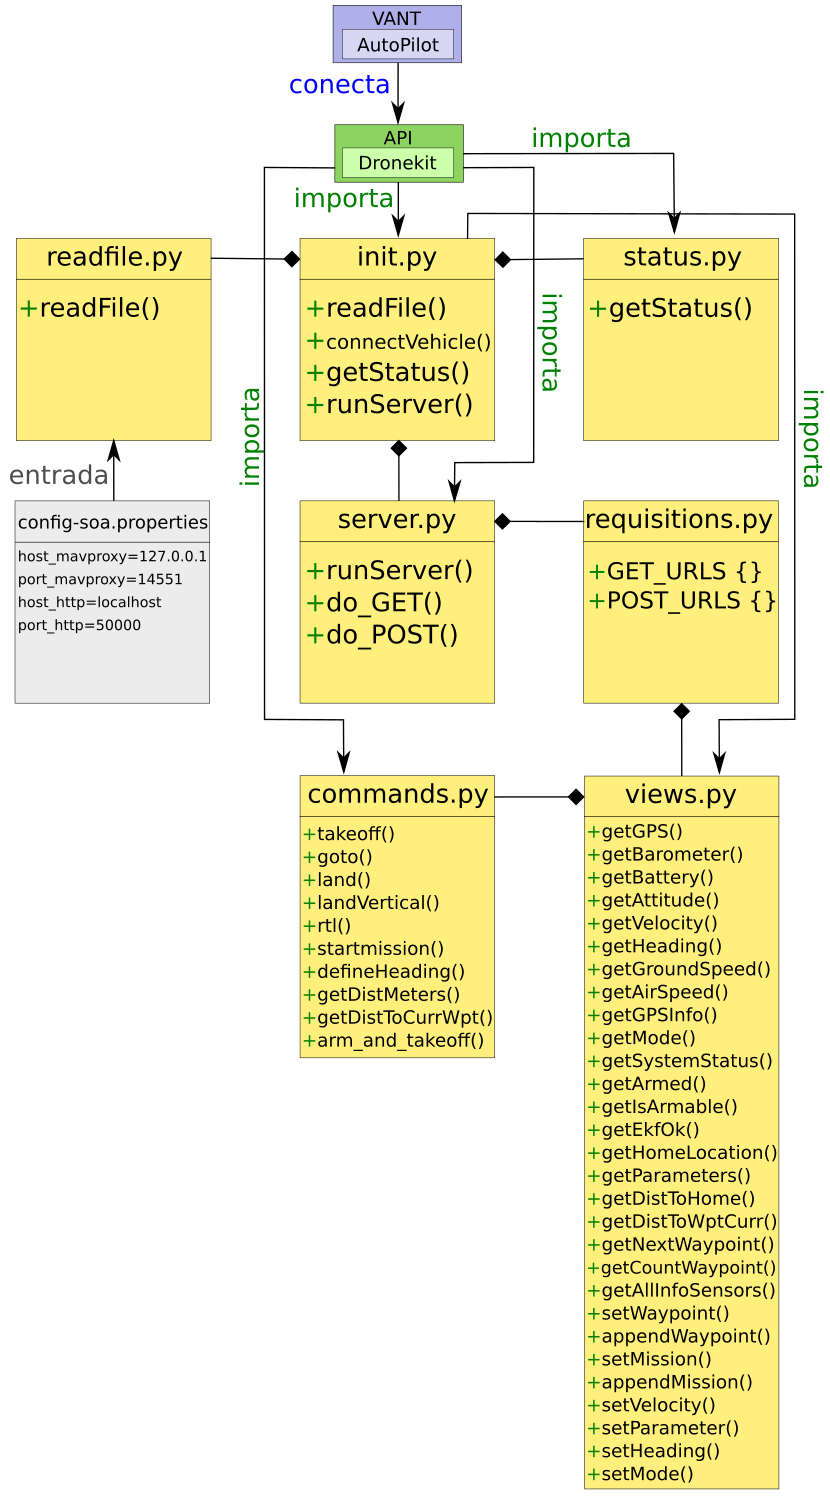
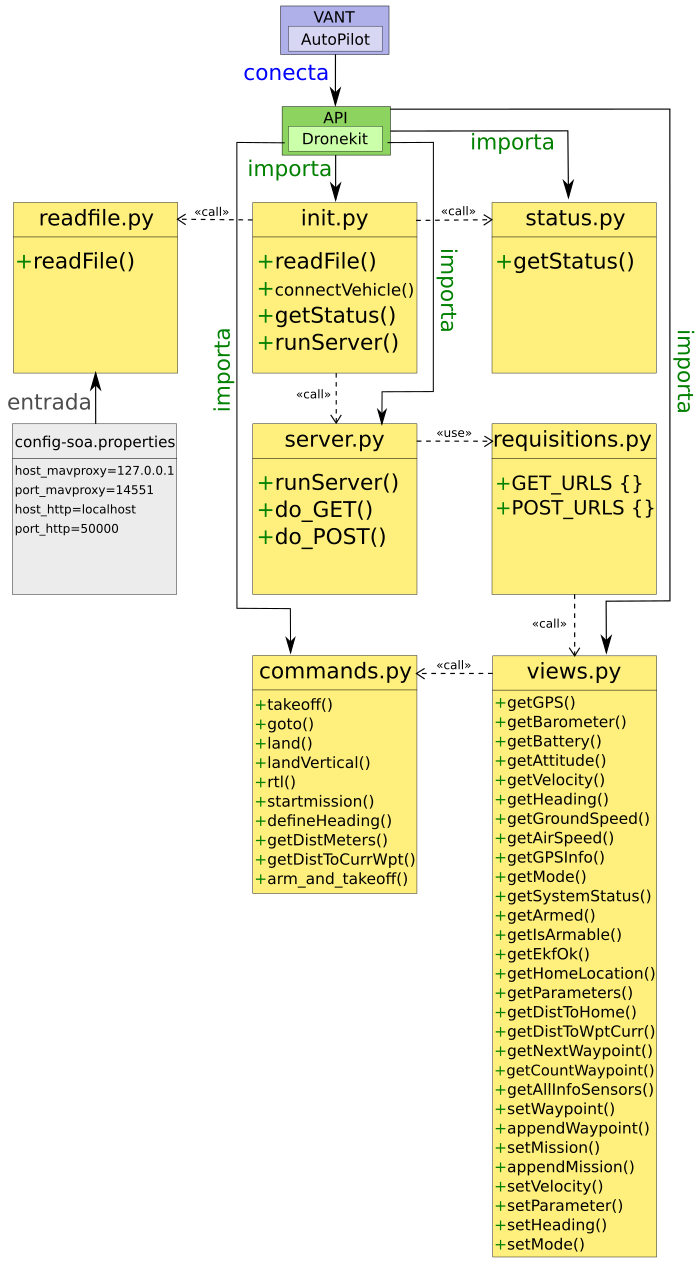
Several modifications

Changed region(s): [[0.0, 0.0, 0.99, 1.0], [0.0, 0.2777, 0.27, 0.432], [0.93, 0.5245, 0.96, 0.5554]]

diff --git a/TODO.md b/TODO.md
@@ -50,18 +50,11 @@ A seguir encontra-se diversas atividades para serem feitas no projeto.
 
 ## Sistema UAV-SOA-Interface:
 
-* Verificar se a função que verifica overhead está correta. O ideal é medir o overhead apenas do AP, pois talvez o gargalo seja a comunicação entre a minha aplicação em java e a aplicação em python o que eu dúvido que seja isso, mas é bom testar. Dessa forma, é interessante capturar os instantes de tempo inicial e final dentro do código em python.
+* Corrigir problema na função setHomeLocation(). Problema no cmds.download() e cmds.wait_ready().
+* Corrigir problema nas funções appendWaypoint() e appendMission(). Problema no cmds.download() e cmds.wait_ready().
+* OBS: Os problemas com cmds.download() e cmds.wait_ready() não ocorrem sempre.
 
 ## UAV-Mission-Creator:
-
-## GitHub e Documentação UAV-Toolkit
-
-* Melhorar a descrição do projeto no github.
-* Traduzir a descrição do projeto no github para o Inglês.
-* Melhorar as descrições através de links, figuras, diagramas e vídeos.
-* Colocar informações sobre como configurar os arquivos de properties.
-* Futuro: Fazer um diagrama do hardware completo e colocar no UAV-Toolkit e Github.
-* Fazer diagrama do sistema IFA e MOSA colocando a frequência de operação de cada uma das threads.
 
 ## Legislação
 
@@ -70,23 +63,15 @@ A seguir encontra-se diversas atividades para serem feitas no projeto.
 
 ## Geral
 
+* Documentação: Melhorar a descrição do projeto no github.
+* Documentação: Traduzir a descrição do projeto no github para o Inglês.
+* Documentação: Melhorar as descrições do github através de links, figuras, diagramas e vídeos.
+* Documentação: Colocar informações sobre como configurar os arquivos de properties no github.
+* Documentação: Fazer diagrama do sistema IFA e MOSA colocando a frequência de operação de cada uma das threads.
 * Documentar todos os códigos em java usando javadoc.
 * Fazer voo com drone pairando em uma altitude constante para capturar o erro do barômetro.
 * Fazer de papelão objetos que representam as regiões bonificadoras e regiões penalizadoras.
 * Melhorar o código evitando acoplamento e coesão do código em Java (trabalhar com interfaces e abstrações).
-
-## Problemas:
-
-Drone:
-* Melhorar a calibração do sensor de alarme de bateria, pois ele está apintando apenas quando a bateria está terminando.
-* Melhorar a calibração do power module.
-* Calibrar o meu drone melhor (PIDs), segundo o Onofre eles estão descalibrados.
-* Corrigir problema em que o AP mostra status informando CRITICAL, acredito que tenha algum problema de hardware.
-
-Sistema UAV-SOA-Interface:
-* Corrigir problema na função setHomeLocation(). Problema no cmds.download() e cmds.wait_ready().
-* Corrigir problema nas funções appendWaypoint() e appendMission(). Problema no cmds.download() e cmds.wait_ready().
-* OBS: Os problemas com cmds.download() e cmds.wait_ready() não ocorrem sempre.
 
 ## Documentação Formal das Falhas no Sistema
 
@@ -148,6 +133,7 @@ AttributeError: 'NoneType' object has no attribute 'lat'
 * Criar uma pasta de examples em meu projeto em que consiga testar o meu ambiente com baixíssimo nível de modificação. 
 * Criar ambiente de testes da funções do UAV-SOA-Interface independente da linguagem Java em python. 
 * Trabalhar melhor no getHomeLocation esta função está dando problemas com a placa Pixhawk (com a APM funciona perfeitamente).
+* Documentação: Fazer um diagrama do hardware completo e colocar no UAV-Toolkit e Github.
 
 * QGroundControl: Tentar descobrir como limpar a antiga missão do QGroundControl.
 * QGroundControl: Corrigir problema na mensagem no início do programa, quando começo uma missão e fala que PreArm 3D Fix.
@@ -156,6 +142,12 @@ AttributeError: 'NoneType' object has no attribute 'lat'
 * Hardware: Incorporar hardware/software de disparo de paraquedas.
 * Hardware: Incorporar hardware/software de sonar no drone apontado para frente.
 * Hardware: Incorporar hardware/software de pulverização de plantações.
+
+
+* Drone: Melhorar a calibração do sensor de alarme de bateria, pois ele está apintando apenas quando a bateria está terminando.
+* Drone: Melhorar a calibração do power module no piloto automático.
+* Drone: Calibrar o meu drone melhor (PIDs), segundo o Onofre eles estão descalibrados.
+* Drone: Corrigir problema em que o AP mostra status informando CRITICAL, acredito que tenha algum problema de hardware.
 
 * UAV-IFA: Incluir verificação de aeronaves intrusas incluindo informações como número de aeronaves intrusas, rotas percorridas por tais aeronaves, distância da aeronave intrusa mais próxima, projeção futura da aeroanve para verificar chance de colisão, conforme descrito em Mattei 2015.
 * UAV-IFA: Abrir o paraquedas somente se der 2Dfix ou 1Dfix ou 0Dfix, por mais de 2 segundos.
@@ -178,6 +170,7 @@ AttributeError: 'NoneType' object has no attribute 'lat'
 * UAV-SOA-Interface: Observar o porquê o drone esta pousando no final da missão.
 * UAV-SOA-Interface: Corrigir problema do drone em que fica informando mensagem na momento de armar (low battery). Verificar se é algo com power module. Nem sempre é necessário armar de forma manual.
 * UAV-SOA-Interface: Criar comando para desarmar o motor (mesmo que a aeronave esteja no ar). Usado para abrir paraquedas.
+* UAV-SOA-Interface: Verificar se a função que verifica overhead está correta. O ideal é medir o overhead apenas do AP, pois talvez o gargalo seja a comunicação entre a minha aplicação em java e a aplicação em python o que eu dúvido que seja isso, mas é bom testar. Dessa forma, é interessante capturar os instantes de tempo inicial e final dentro do código em python.
 
 * Experimento: Medir usando o software Wicd a porcentagem de alcance das redes do Notebook, Celular e Roteador Wifi.
 * Experimento: Fazer experimento de payload do drone tentando levantar: 200g, 400g, 600g, 800g e 1000g. Para descobrir 

diff --git a/UAV-SOA-Interface/README.md b/UAV-SOA-Interface/README.md
@@ -117,8 +117,10 @@ http://localhost:50000/set-heading/
 http://localhost:50000/set-mode/
 ```
 
-## Diagrama de Classe
+## Diagrama de Dependência
 
-Abaixo encontra-se o diagrama de classe e dependência do UAV-SOA-Interface
+Abaixo encontra-se um diagrama de dependência do software UAV-SOA-Interface.
 
 ![](../Figures/diagrama-uav-soa.png)
+
+Neste diagrama de dependêdia podemos perceber claramente o funcionamento do sistema. Lembre-se que as setas tracejadas (dependências) apontam para o arquivo dependente. Foram incorporados nesse diagrama o VANT com o seu piloto automático (AP) que são os elementos mais importantes para esta aplicação. A API do Dronekit conecta-se ao piloto automático. O arquivo init.py, inicialmente, manda fazer a leitura de um arquivo de configurações [descrito aqui](https://github.com/jesimar/UAV-Toolkit/tree/master/UAV-SOA-Interface#arquivo-de-entrada) e feito no arquivo readfile.py. Em seguida, se conecta ao veículo (AP), então e retornado todos os principais status do veículo (feito no arquivo status.py). Posteriormente, inicia-se a parte mais importante que é a execução de um servidor HTTP que atende a requisições do tipo GET e POST (feita no arquivo server.py). Os nomes dos métodos GET e POST foram mapeados em uma estrutura de dicionário no arquivo requisitions.py. As funções dos métodos GET e POST estão definidas em views.py, por sua vez quando tem que enviar algum comando mavlink para o drone é feito através do arquivo commands.py.

diff --git a/Instances/README.md b/Instances/README.md
@@ -2,9 +2,11 @@
 
 Este diretório agrupa um conjunto de arquivos de instâncias Artificiais e Reais utilizadas nos planejadores e replanejadores.
 
-* Instancias Artificiais: Foram geradas de forma automática por algum algoritmo.
+* Instancias Artificiais: Foram geradas de forma automática por algum algoritmo (programa localizado [aqui](https://github.com/jesimar/UAV-Tools/tree/master/CreateMapArtificial)).
 
-* Instancias Reais: Foram geradas de forma manual, em geral, usando o Google Earth e usando o software UAV-Mission-Creator.
+* Instancias Reais: Foram geradas de forma manual, em geral, usando o Google Earth e usando o software [UAV-Mission-Creator](https://github.com/jesimar/UAV-Toolkit/tree/master/UAV-Mission-Creator).
+
+A Figura abaixo dá uma visão geral dos arquivos de instâncias disponibilizados nesse diretório.
 
 ![](../Figures/instances.png)
 

diff --git a/README.md b/README.md
@@ -114,6 +114,10 @@ O artigo abaixo contém um pouco dos detalhes do sistema IFA e MOSA implementado
 } 
 ```
 
+## Contributors
+
+Os principais contribuidores desse projeto podem ser encontrados [aqui](https://github.com/jesimar/UAV-Toolkit/blob/master/AUTHORS)
+
 ## Changelog
 
 A versão do ChangeLog pode ser acessado [aqui](https://github.com/jesimar/UAV-Toolkit/blob/master/CHANGELOG.md). 
